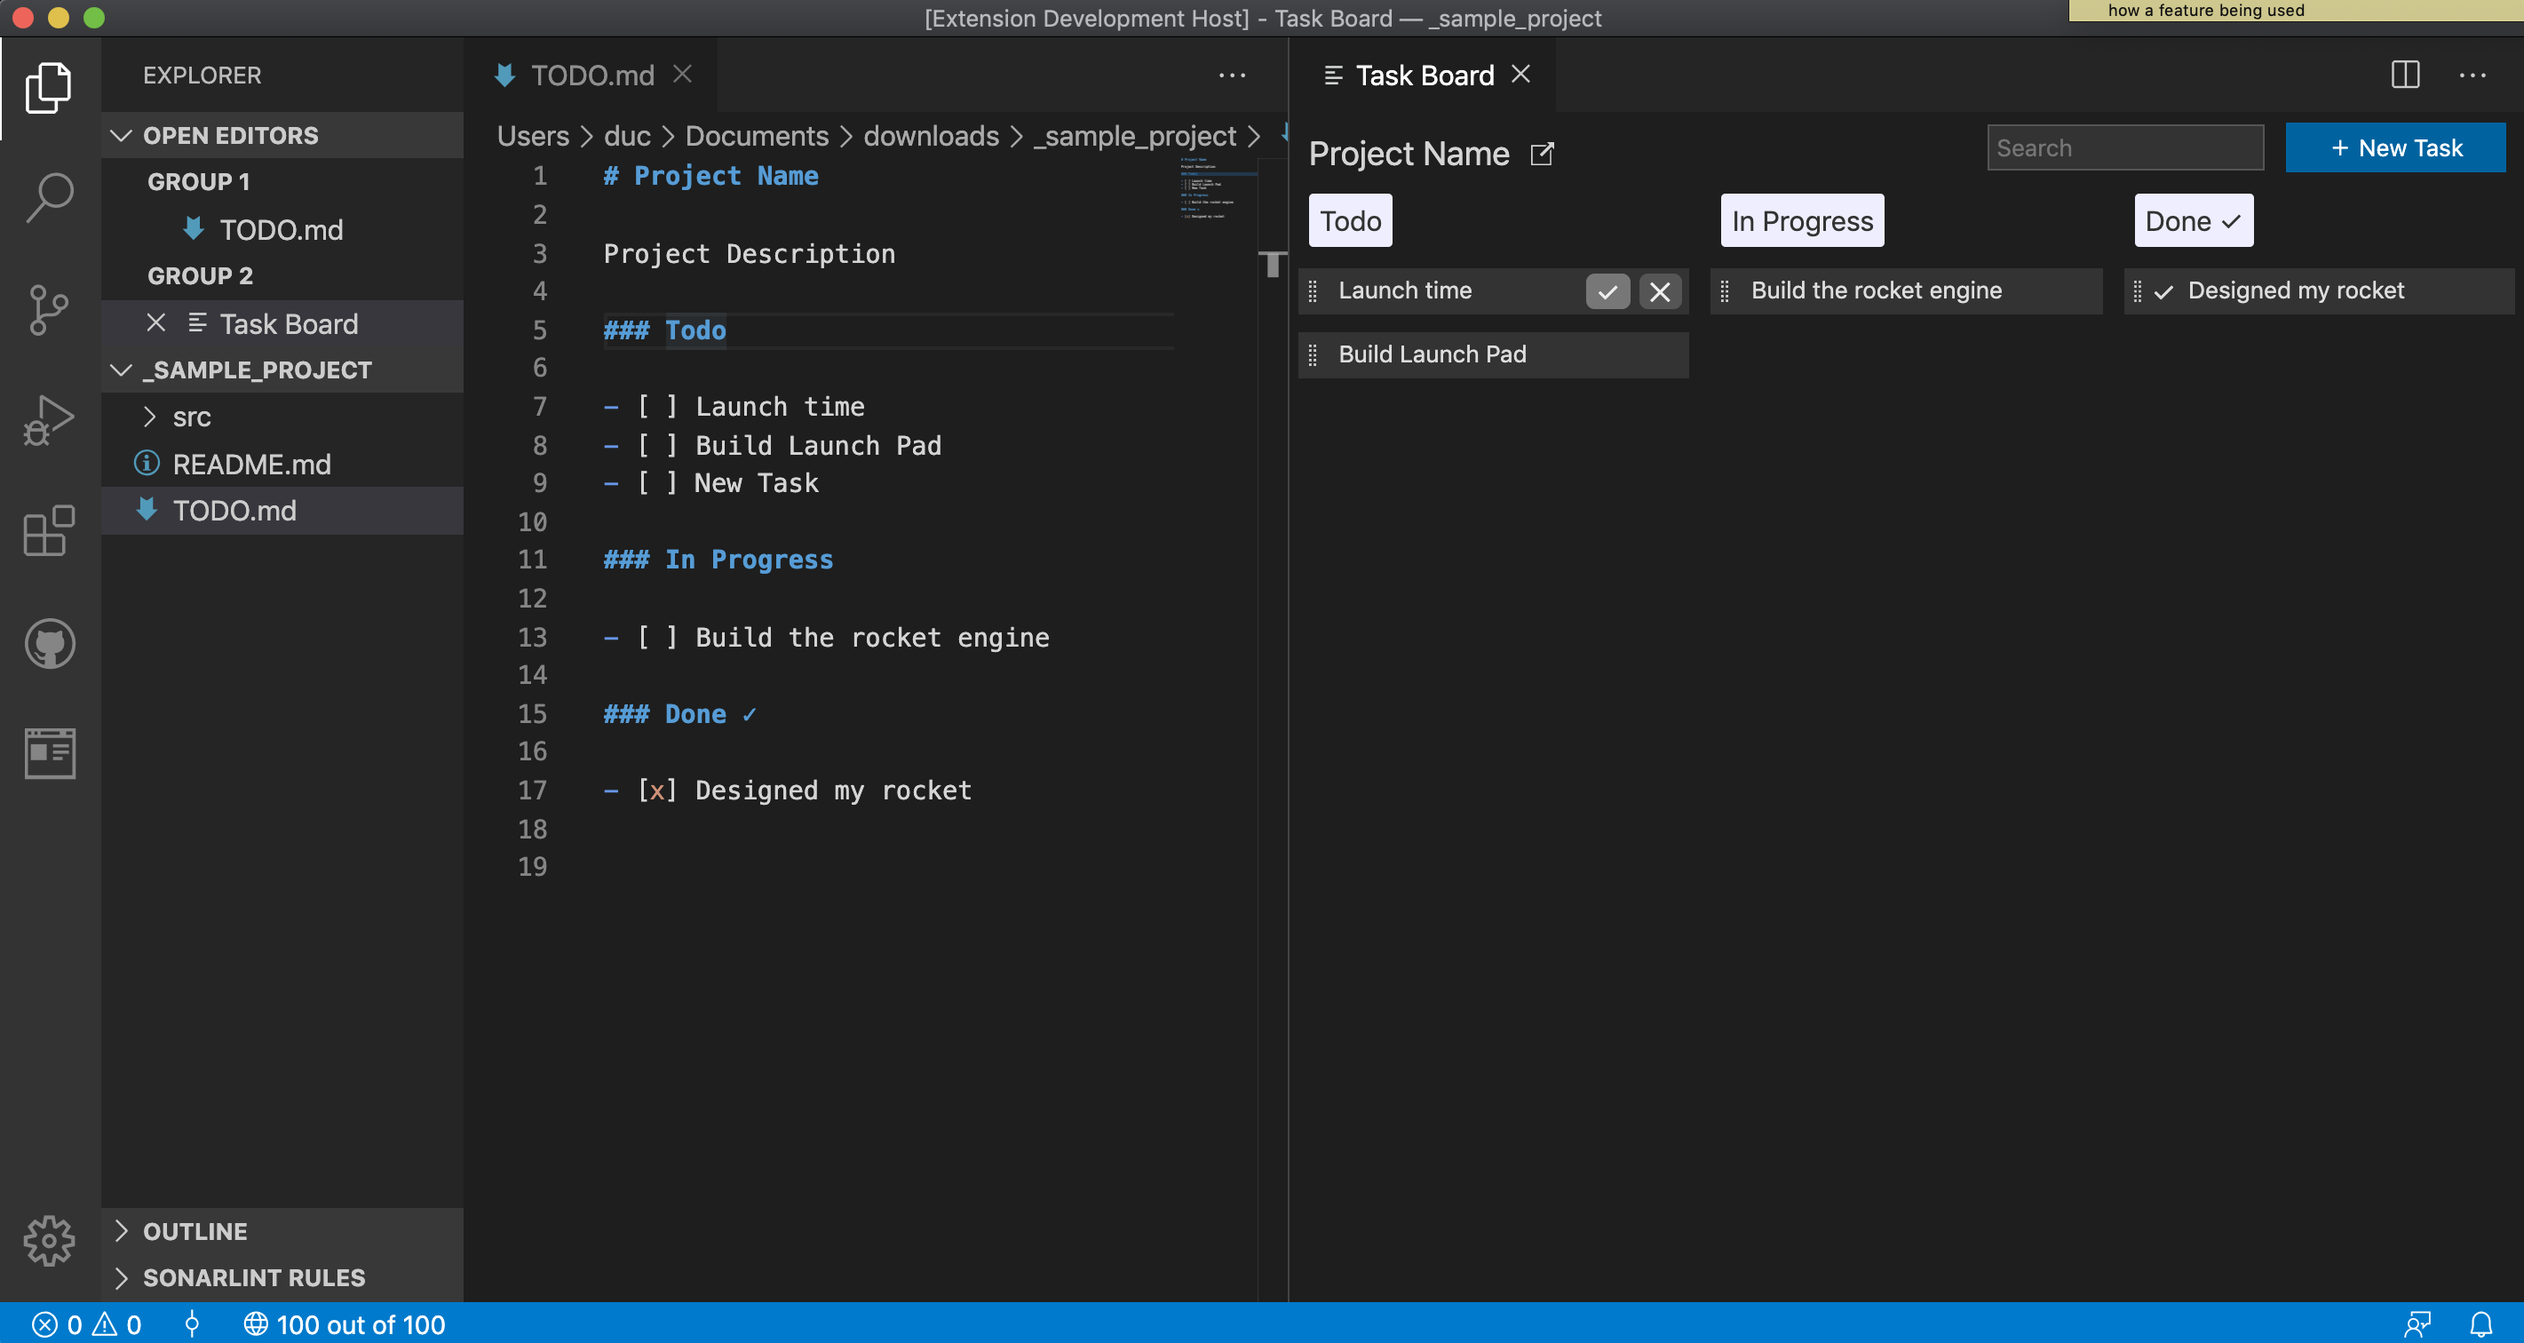
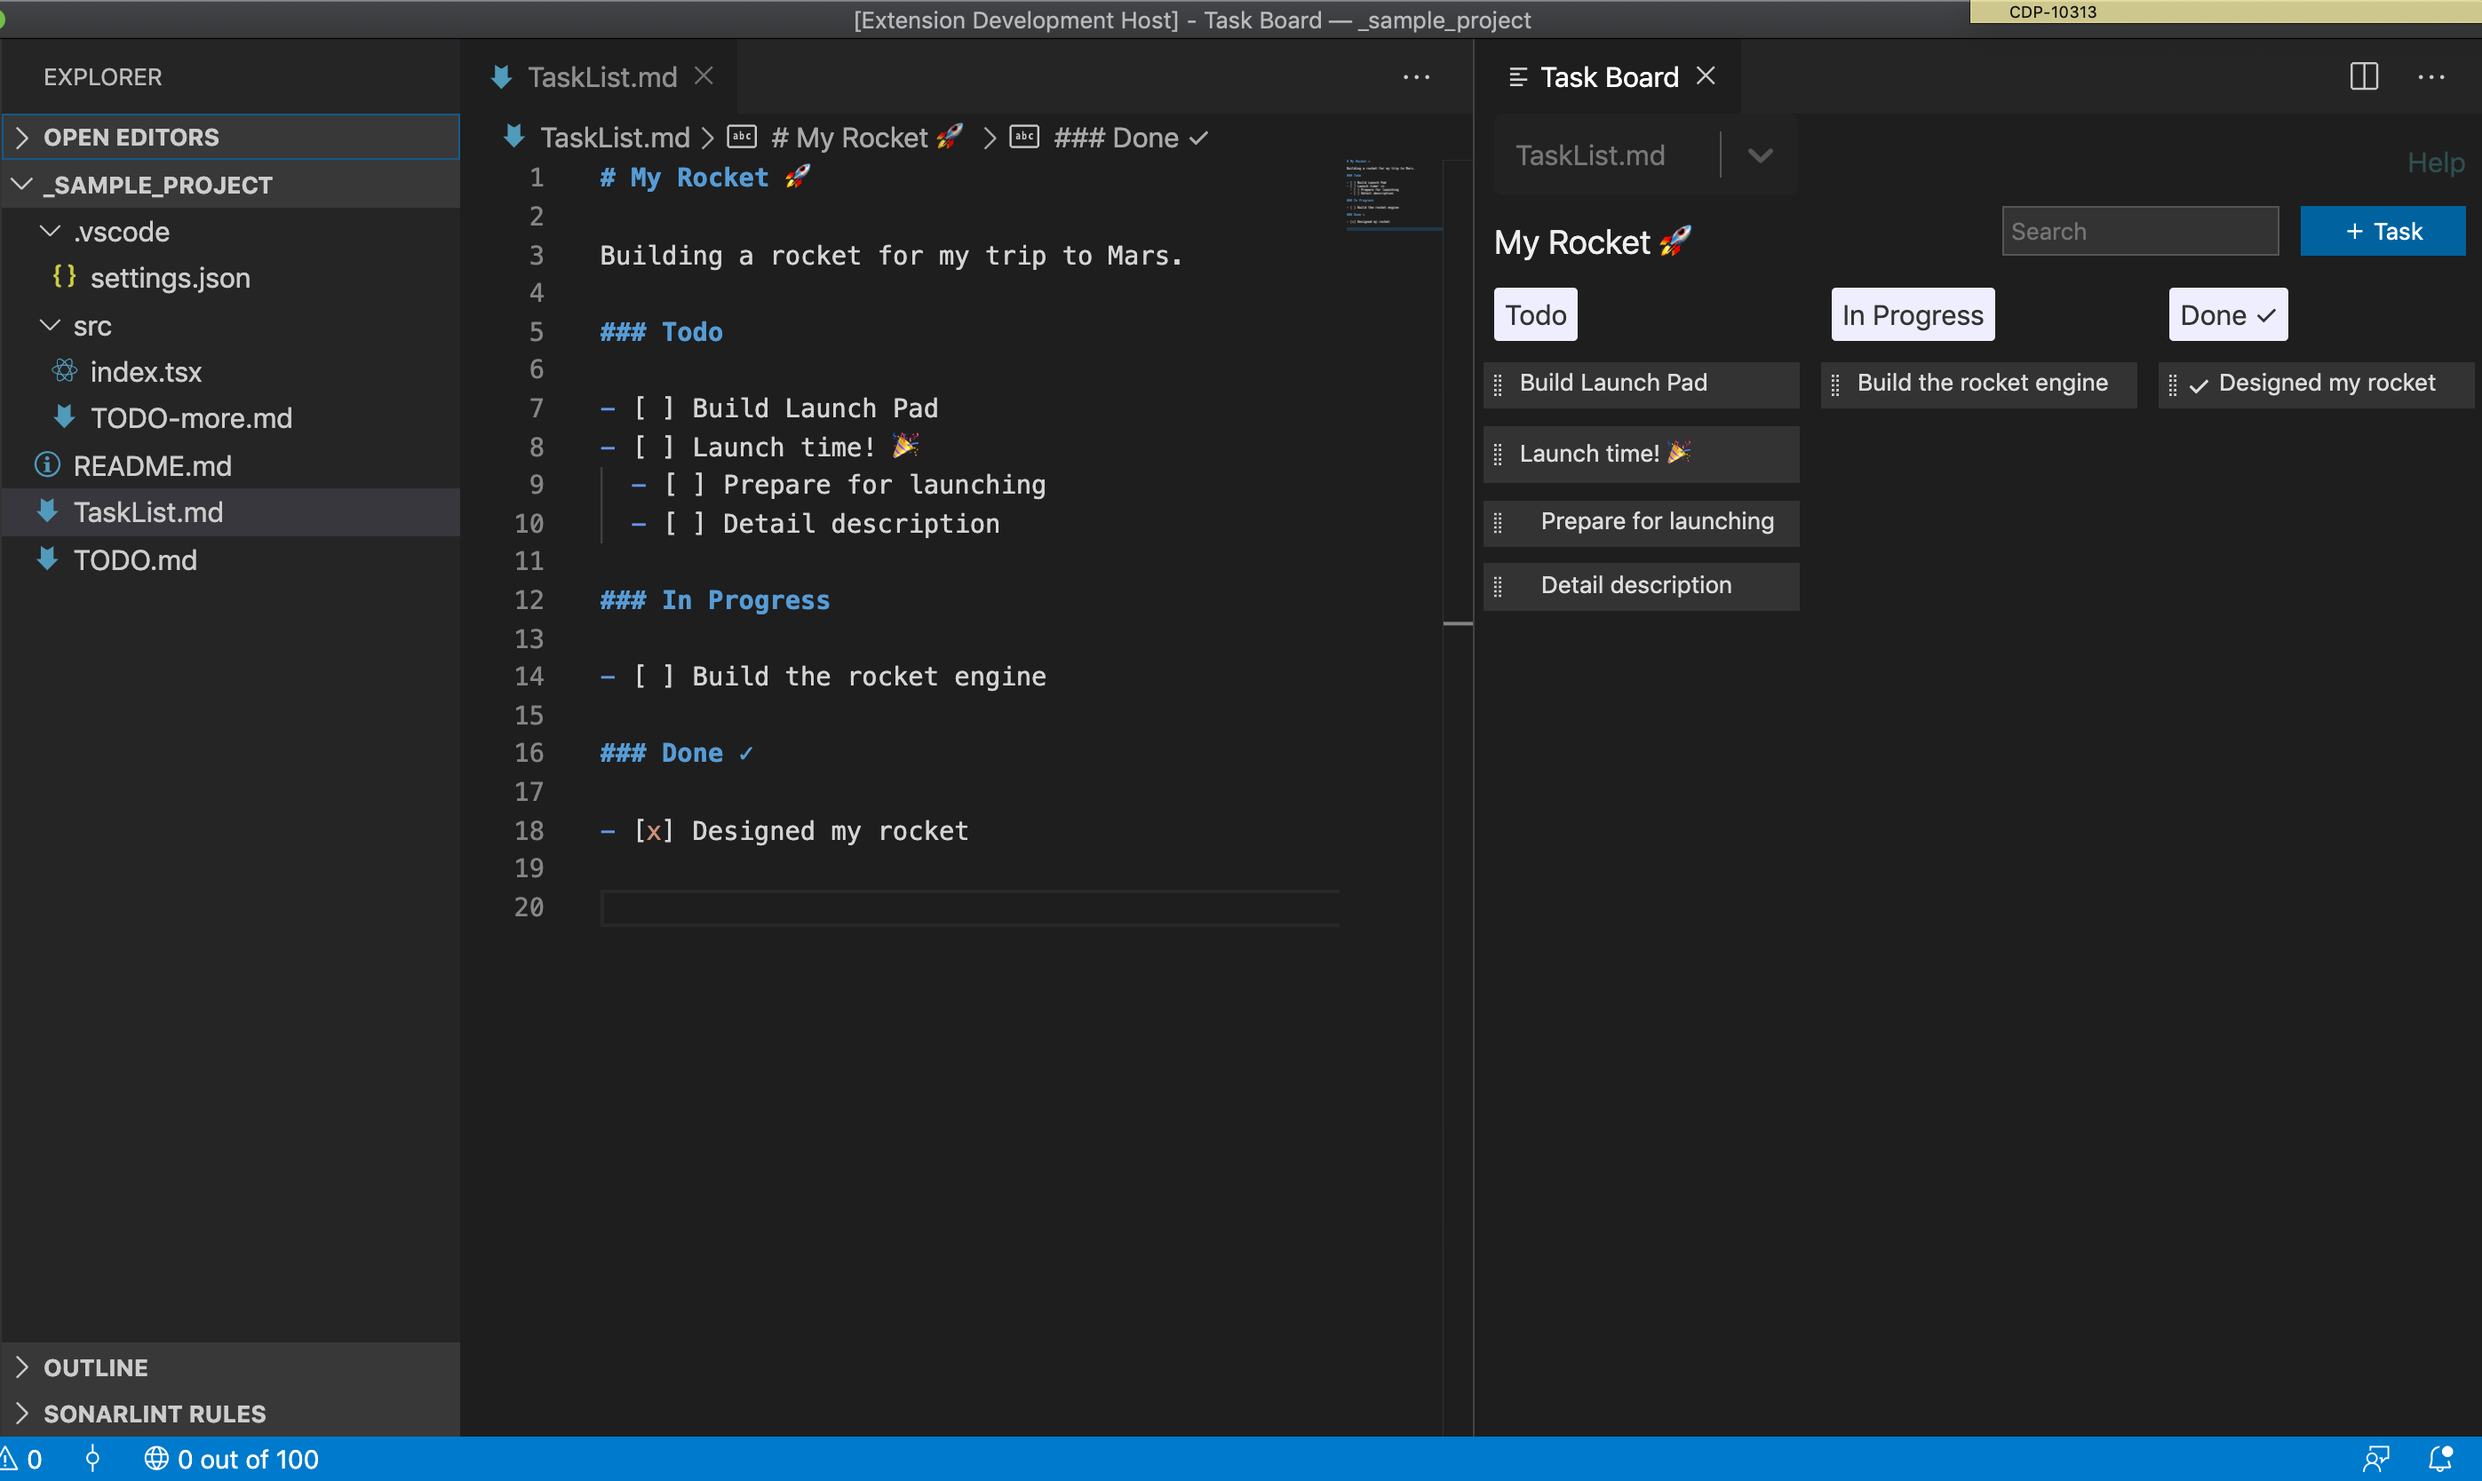
updated docs

diff --git a/TODO.md b/TODO.md
@@ -4,6 +4,12 @@ Coddx Project Description
 
 ### Todo
 
+- [ ] Rename Git Repos  
+  - [ ] Update Readme, Docs  
+  - [ ] Update all URLs  
+- [ ] Markdown links for File or URL  
+- [ ] Markdown text formats  
+- [ ] Animate Search Input  
 - [ ] Task description  
 
 ### In Progress
@@ -12,6 +18,10 @@ Coddx Project Description
 
 ### Done ✓
 
+- [x] Insert Emojis  
+- [x] Toggle sub-task  
+- [x] Rename to Todo.md Kanban Board  
+- [x] Support sub-task  
 - [x] Optional checkbox in task title  
 - [x] Default to the 1st Task List  
 - [x] Add Help link  
@@ -20,7 +30,7 @@ Coddx Project Description
 - [x] Auto save for Task Re-ordering  
 - [x] Add Open File link  
 - [x] Split to different Doc Topics  
-- [x] Auto focus on New Task 03/18/2020  
-- [x] Check mark to mark as Done 03/18/2020  
+- [x] Auto focus on New Task 2020-03-18  
+- [x] Check mark to mark as Done 2020-03-18  
 - [x] Setup coddx mailbox  
 

diff --git a/README.md b/README.md
@@ -11,11 +11,12 @@ Some useful features like:
 
 ### Task Board
 
-- Manage tasks in TODO.md - a plain text markdown file.
+- Manage tasks with [TODO.md format](https://bit.ly/2JdEuET) - a plain text markdown file.
 - The syntax is compatible with [Github Markdown](https://bit.ly/2wBp1Mk)
 - TODO.md file is portable and can be committed with Pull Requests (PRs) to git repositories.
 - Support custom file name, multiple task lists.
 - Checkboxes are optional (if your task titles don't have them).
+- See also: <a href="https://bit.ly/2WHprLW">Documentation / Guides</a>
 
 #### Usage:
 

diff --git a/docs/task-board.md b/docs/task-board.md
@@ -2,7 +2,7 @@
 
 ### Features
 
-- Manage tasks in TODO.md - a plain text markdown file.
+- Manage tasks with [TODO.md format](https://bit.ly/2JdEuET) - a plain text markdown file.
 - The syntax is compatible with [Github Markdown](https://bit.ly/2wBp1Mk)
 - TODO.md file is portable and can be committed with Pull Requests (PRs) to git repositories.
 - Support custom file name, multiple task lists.
@@ -10,7 +10,7 @@
 
 ### TODO.md
 
-[TODO.md format](https://github.com/todomd/todo.md)
+[TODO.md format](https://bit.ly/2JdEuET)
 
 - Task Board is a bit strict about TODO.md format.
 

diff --git a/CHANGELOG.md b/CHANGELOG.md
@@ -1,10 +1,12 @@
 # Change Log
 
-## [0.2.18] - 2020-03-24
+## [0.2.25] - 2020-03-26
 
 - Task Board - support multiple task lists defined in user's settings.json.
 - Task Board - refresh button to reload file content.
 - Task Board - checkbox is now optional (if task title doesn't have it).
+- Task Board - support sub-task (task title starts with 2-space indentation).
+- Task Board - task menu for: toggling sub-task; inserting emojis;
 
 ## [0.2.12] - 2020-03-21
 
